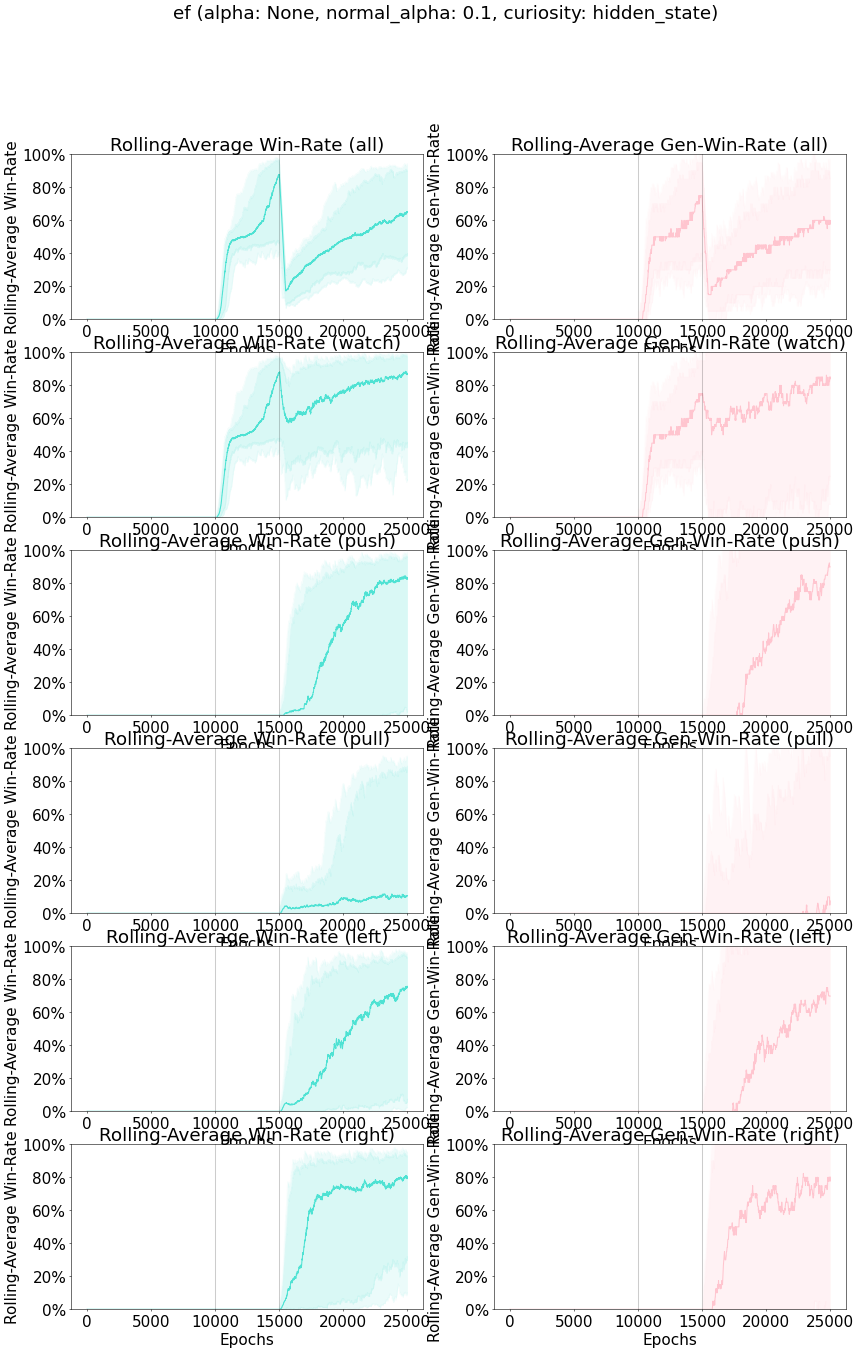
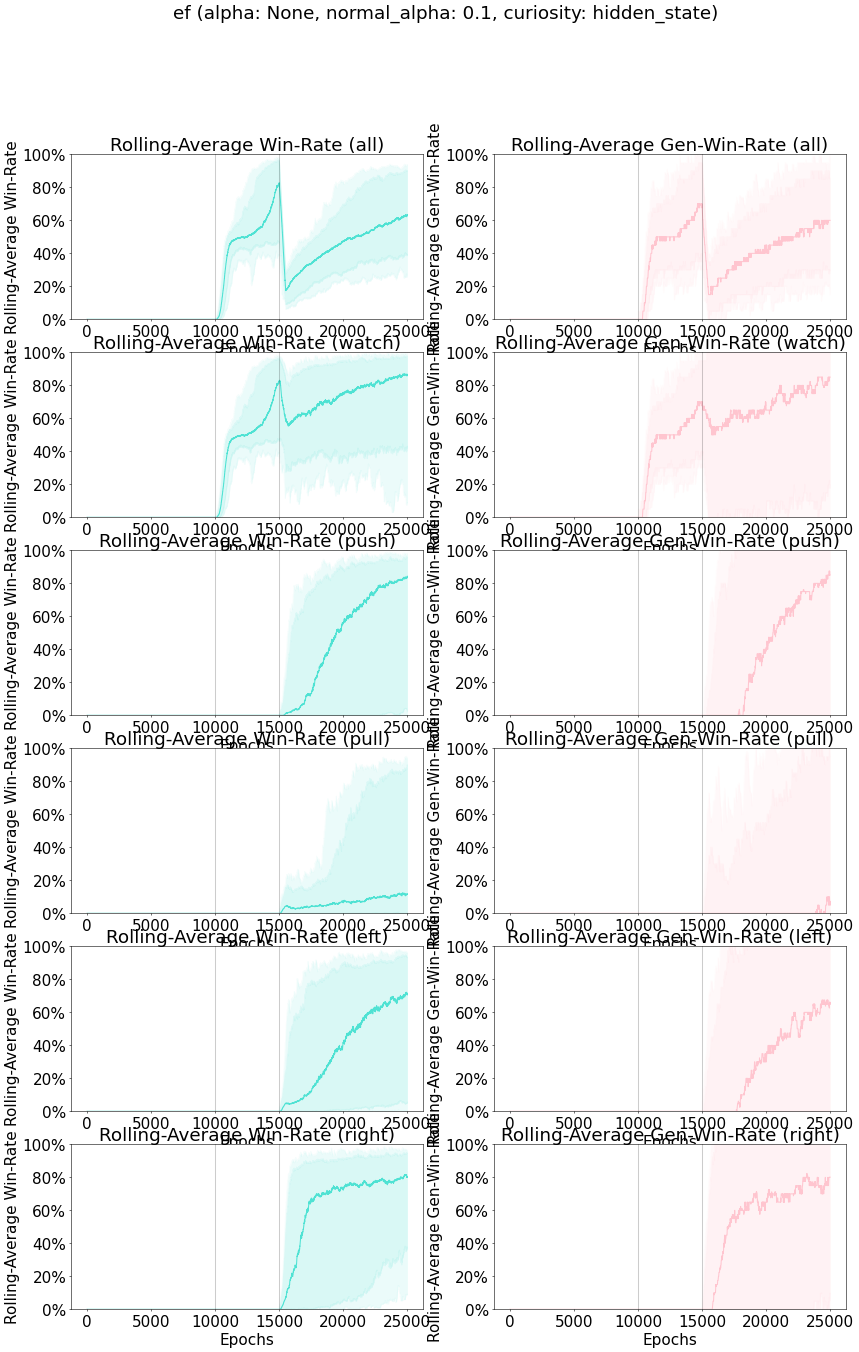
working two-arms

diff --git a/test_agent.py b/test_agent.py
@@ -6,8 +6,8 @@ from task import Task, Task_Runner
 from agent import Agent 
 
 hyper_parameters = "ef_hard"
-agent_num = 2
-epochs = 40000
+agent_num = 1
+epochs = 45000
 saved_file = "saved_deigo"
 
 
@@ -18,7 +18,6 @@ with open(f'{saved_file}/{hyper_parameters}/plot_dict.pickle', 'rb') as file:
     agent_lists = plot_dict["agent_lists"]
     args = plot_dict["args"]
 print("Loaded!\n\n")
-args.two_arms = True
 
 print("Making arena...", end = " ")
 agent = Agent(GUI = True, args = args)
@@ -56,7 +55,7 @@ agent.tasks = {0 : Task(
     parenting = True, 
     args = agent.args)}
 
-agent.task_runners = {task_name : Task_Runner(task, agent.arena_1, agent.arena_2) for i, (task_name, task) in enumerate(agent.tasks.items())}
+agent.task_runners = {task_name : Task_Runner(task, agent.arena_1, agent.arena_2, agent.args) for i, (task_name, task) in enumerate(agent.tasks.items())}
 agent.task_name = 0
 agent.task = agent.task_runners[agent.task_name]
 

diff --git a/plotting.py b/plotting.py
@@ -224,7 +224,7 @@ def plots(plot_dicts, min_max_dict):
             def get_rolled_wins(gen = False):
                 wins = plot_dict[f"{'gen_' if gen else ''}wins_" + action_name.lower()]
                 wins = np.array(wins)
-                wins_rolled = rolling_average_with_none(wins, 500) * 100
+                wins_rolled = rolling_average_with_none(wins) * 100
                 plot_dict[f"{'gen_' if gen else ''}wins_rolled_" + action_name.lower()] = wins_rolled
                 win_dict = get_quantiles(plot_dict, f"{'gen_' if gen else ''}wins_rolled_" + action_name.lower(), levels = levels, adjust_xs = False)
                 return(win_dict)

diff --git a/bash/slurmcraft.py b/bash/slurmcraft.py
@@ -100,16 +100,12 @@ add_this("comm",   {
 
 
 
-add_this("two_arms",   {
-    "two_arms" : "True"})
-
-
-
-add_this("hard", {               # More time, but no distance reward, using GRU comm-in, all 5 objects
-    "epochs" : "'[10000, 5000, 25000]'",
+add_this("hard", {               # More time, but harder conditions
+    "epochs" : "'[10000, 5000, 30000]'",
     "use_comm_in_gru" : "True",
     "dist_reward" : 0,
-    "task_list" : "\"['fp5', 'w5', 'wpulr5']\""})
+    "task_list" : "\"['fp5', 'w5', 'wpulr5']\"",
+    "two_arms" : "True"})
 
 
 

diff --git a/agent.py b/agent.py
@@ -564,7 +564,7 @@ class Agent:
         
         
         
-    def save_episodes(self, swapping = False, test = False, sleep_time = None, for_display = False):
+    def save_episodes(self, swapping = False, test = False, sleep_time = None, for_display = False):        
         with torch.no_grad():
             self.task = self.task_runners[self.task_name]
             self.task.begin(test = test)       

diff --git a/utils.py b/utils.py
@@ -4,6 +4,7 @@
 #   Make it work FASTER. Trying float16 on cuda, getting NaN.
 #   'free play' image prediction is terrible! WHY?!
 #   "push" action detected at odd times. Should "left" and "right" win when object out of gaze?
+#   Plotting sometimes shows big changes immedientely after changing epoch-list values. 
 
 # To do: less important 
 #   I wish plotting-episodes put actions one step ahead...

diff --git a/task.py b/task.py
@@ -118,7 +118,7 @@ class Task_Runner:
             right_shoulder = action[3].item()
         else: 
             right_shoulder = None
-      
+                  
         if(verbose): 
             print("\n\nStep {}:".format(self.steps))
             print("Left Wheel: {}. Right Wheel: {}. Shoulders: {}, {}.".format(
